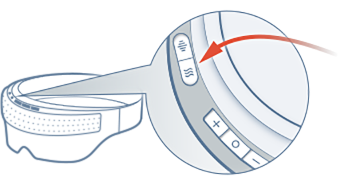
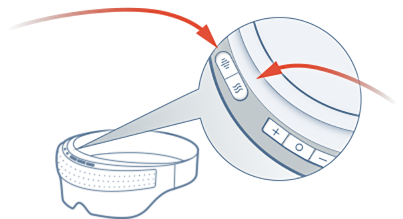
调整

diff --git a/pages/mine/mine.vue b/pages/mine/mine.vue
@@ -33,8 +33,43 @@
 				<view class="btn" @click="go2Use">去使用</view>
 			</view>
 			<view class="desc">
-				<view class="title">积分说明</view>
-				<view class="subtitle" @click="detailhandler">查看具体规则</view>
+				<!-- <view class="title">积分说明</view> -->
+				<view class="rule-title">积分活动规则</view>
+				<view class="popup__body">
+					<text>会员积分是眠加小程序商城针对会员购物、参加会员活动等情况而给予的奖励，积分可在“眠加小程序商城”和“眠加活力健康检测”中使用。您可在眠加会员中心（ 我的> 会员中心>
+						积分）查看所获得的积分。具体的积分获取、使用规则详见如文规定。
+
+						一、积分获取规则：
+
+						1. 注册积分：在眠加小程序商城完成注册，送200初始积分；
+						2. 消费积分：会员在眠加小程序商城消费时，每消费1元可获得1积分，积分可累计；
+						3. 签到积分：会员每天签到可获得1积分，每月签到次数不超过31次；
+						4. 积分回馈的数量以订单完成时的商品实付金额和比例为准，且仅计取整数。例如购买1000.9元的商品，发放1000个积分。
+
+						二、积分兑换规则：
+
+						1. 适用范围：积分仅可在“眠加小程序商城”和“眠加活力健康检测”中使用，可用于商品购买、健康检测、礼品兑换、活动抽奖等；
+						2. 购物积分抵扣：会员可使用积分抵扣购物金额，每20积分可抵扣1元，最高可抵扣订单总金额的40%；
+						3. 健康检测积分抵扣：60积分可进行健康检测一次，健康检测无次数限制；
+						4. 积分兑换礼品：会员可使用积分兑换眠加小程序商城指定的礼品，兑换所需积分以具体兑换礼品为准；
+						5. 订单内全部商品确认收货后，且7天内未发生退货的情况下，所发放积分才可使用；
+						6. 若使用现金+积分购买商品，所使用积分不享受积分回馈权益，只有使用的现金享受积分回馈权益，且单个商品不能连续15次用积分购买；
+						7. 若使用优惠券购买商品，则优惠券折扣部分不享受积分回馈；
+						8. 支付订单一经提交则该笔订单中所使用的积分将会预扣处理，如您最终取消付款，所使用的积分将在一定时间内返还到您的眠加帐号；
+						9. 积分使用后无法退还，兑换所需要的积分数量可能发生变动，具体以实际兑换所需积分数量为准；
+						10. 积分不可兑现、转让、售卖或跨帐号使用，使用积分抵扣商品金额的部分作为销售折扣在发票上单独列示，使用积分抵扣全部金额的则不开发票；
+						11. 可使用积分抵扣的金额可能会根据情况相应调整，具体请以实际页面提示为准。
+
+						三、特别声明：
+
+						1. 眠加小程序商城对本规则拥有最终解释权，保留对细则进行变更，解释，及终止权利；
+						2. 如用户注销眠加小程序商城帐号，所获的积分将被清空并作废；
+						3. 当订单已完成，发生增值税发票更换普通发票情况时，不补发对应积分；发生普通发票更换增值税发票情况时，则需要扣减该笔订单发放的积分；
+						4.凡以违反积分规则的方式或采用不正当手段（包括但不限于作弊、恶意刷分、扰乱/破坏系统、恶意利用系统或者规则漏洞）获取、使用积分，我们有权根据其行为恶劣程度决定扣除您帐号内所有或部分积分，对于已使用积分，有权要求您返还已抵扣的订单金额或所兑换的礼品或权益；
+						5. 以上积分规则自2024年8月13日生效。
+
+					</text>
+				</view>
 			</view>
 		</view>
 		<uni-popup class="m-popup" ref="popup" type="center">
@@ -91,11 +126,11 @@
 		data() {
 			return {
 				bgColorList: [{
-						color: "#5794d2",
+						color: "#1c4485",
 						scale: "0%"
 					},
 					{
-						color: "#607796",
+						color: "#1c4485",
 						scale: "100%"
 					}
 				],
@@ -159,7 +194,7 @@
 <style lang="scss">
 	.container {
 		// background-color: line-gradient(90deg, #5794d2, #607796);
-		background: linear-gradient(90deg, rgb(87, 148, 210), rgb(96, 119, 150));
+		background: linear-gradient(90deg, rgb(28, 68, 133), rgb(28, 68, 133));
 
 		.health-btn {
 			background-color: #003C71;
@@ -168,6 +203,23 @@
 			line-height: 50rpx;
 			text-align: center;
 			border-radius: 10rpx;
+		}
+
+		.rule-title {
+			margin: 0 auto;
+			text-align: center;
+			font-size: 40rpx;
+			padding-bottom: 50rpx;
+		}
+
+		.popup__t1 {
+			padding-top: 20rpx;
+			font-weight: bold;
+		}
+
+		.popup__body {
+			text-align: justify;
+			padding: 20rpx;
 		}
 
 		.m-popup {
@@ -233,6 +285,7 @@
 
 			.user_info {
 				position: relative;
+				height: 150rpx;
 				// overflow: hidden;
 			}
 
@@ -336,6 +389,8 @@
 				padding-left: 66rpx;
 				padding-right: 66rpx;
 				padding-top: 60rpx;
+				height: calc(100vh - 950rpx);
+				overflow: scroll;
 
 				.subtitle {
 					padding-top: 20rpx;

diff --git a/page_subject/play/play.vue b/page_subject/play/play.vue
@@ -35,12 +35,19 @@
 		<view class="center-part">
 			<view class="border">
 				<view class="title">
-					如何使用热敷?
+					如何使用音乐和热敷?
 				</view>
-				<view class="flex just-center align-center" style="padding: 20rpx;">
+				<view class="flex just-center align-center" style="padding: 20rpx;position: relative;">
+					<view class="tips1">长按3秒开启眼罩蓝牙<br>
+						耳机，在手机设置中连<br>
+						接Minga耳机<br>
+						<br>
+					</view>
 					<image class="tip-img" mode="widthFix" :src="'../static/SMY_06_RF01.png'"></image>
-					<view class="tips">需要热敷时<br>
-						请开启这个按钮</view>
+					<view class="tips">需要热敷<br>
+						时请长按此<br>
+						按钮3秒开启<br>
+					</view>
 				</view>
 			</view>
 		</view>
@@ -268,6 +275,8 @@
 		width: 100%;
 		height: 100%;
 
+
+
 		.list-item {
 			background-color: #f0f2f7;
 			border-radius: 20rpx;
@@ -421,12 +430,25 @@
 					width: 349rpx;
 				}
 
+				.tips1 {
+					width: 300rpx;
+					position: absolute;
+					font-family: YouYuan;
+					font-weight: 400;
+					font-size: 28rpx;
+					color: #3D3D3D;
+					line-height: 34rpx;
+					margin-left: -50%;
+				}
+
 				.tips {
 					font-family: YouYuan;
 					font-weight: 400;
 					font-size: 28rpx;
 					color: #3D3D3D;
 					line-height: 34rpx;
+					position: absolute;
+					right: 30rpx;
 				}
 
 				.title {

diff --git a/page_subject/work/work.vue b/page_subject/work/work.vue
@@ -33,7 +33,7 @@
 			<div class="item" style="margin-left: 42rpx;">特别说明:</div>
 			<div class="item flex align-center" style="padding-bottom: 60rpx;">
 				<image class="iconblue" mode="widthFix" src="../static/SY_01_IconLY.png"></image>
-				<div>浅针仪基本使用功能，需要蓝牙连接</div>
+				<div>要使用助眠仪的基本功能，需要用到蓝牙连接</div>
 			</div>
 		</view>
 		<!-- 		<view class="device-item">